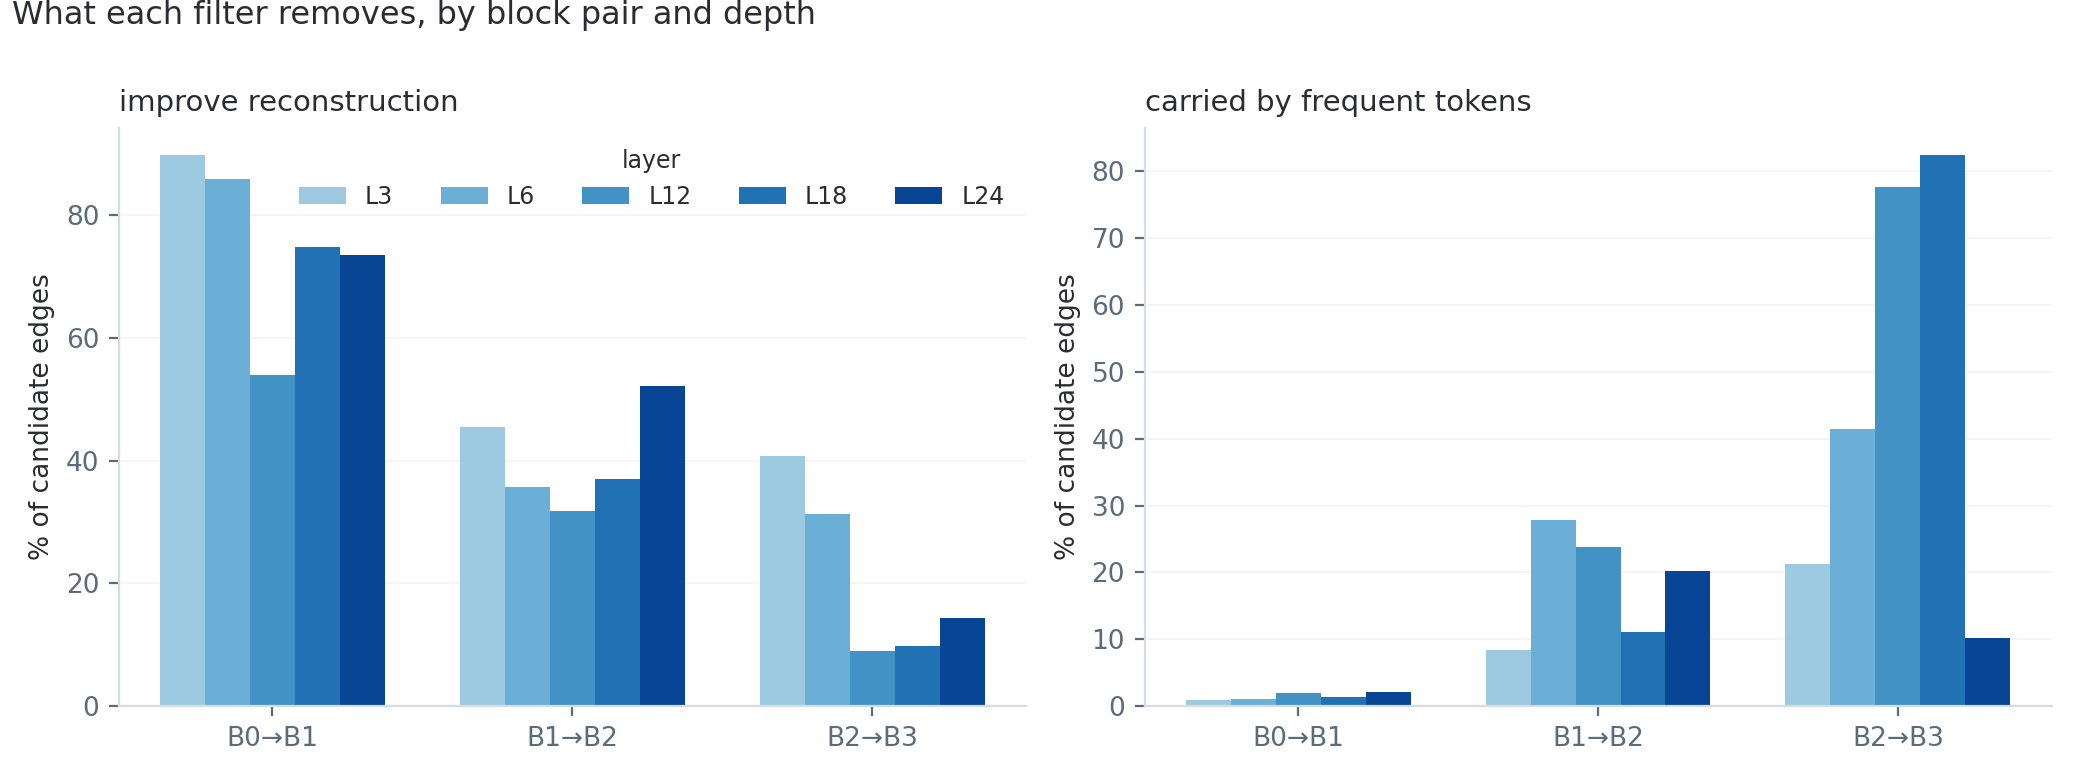
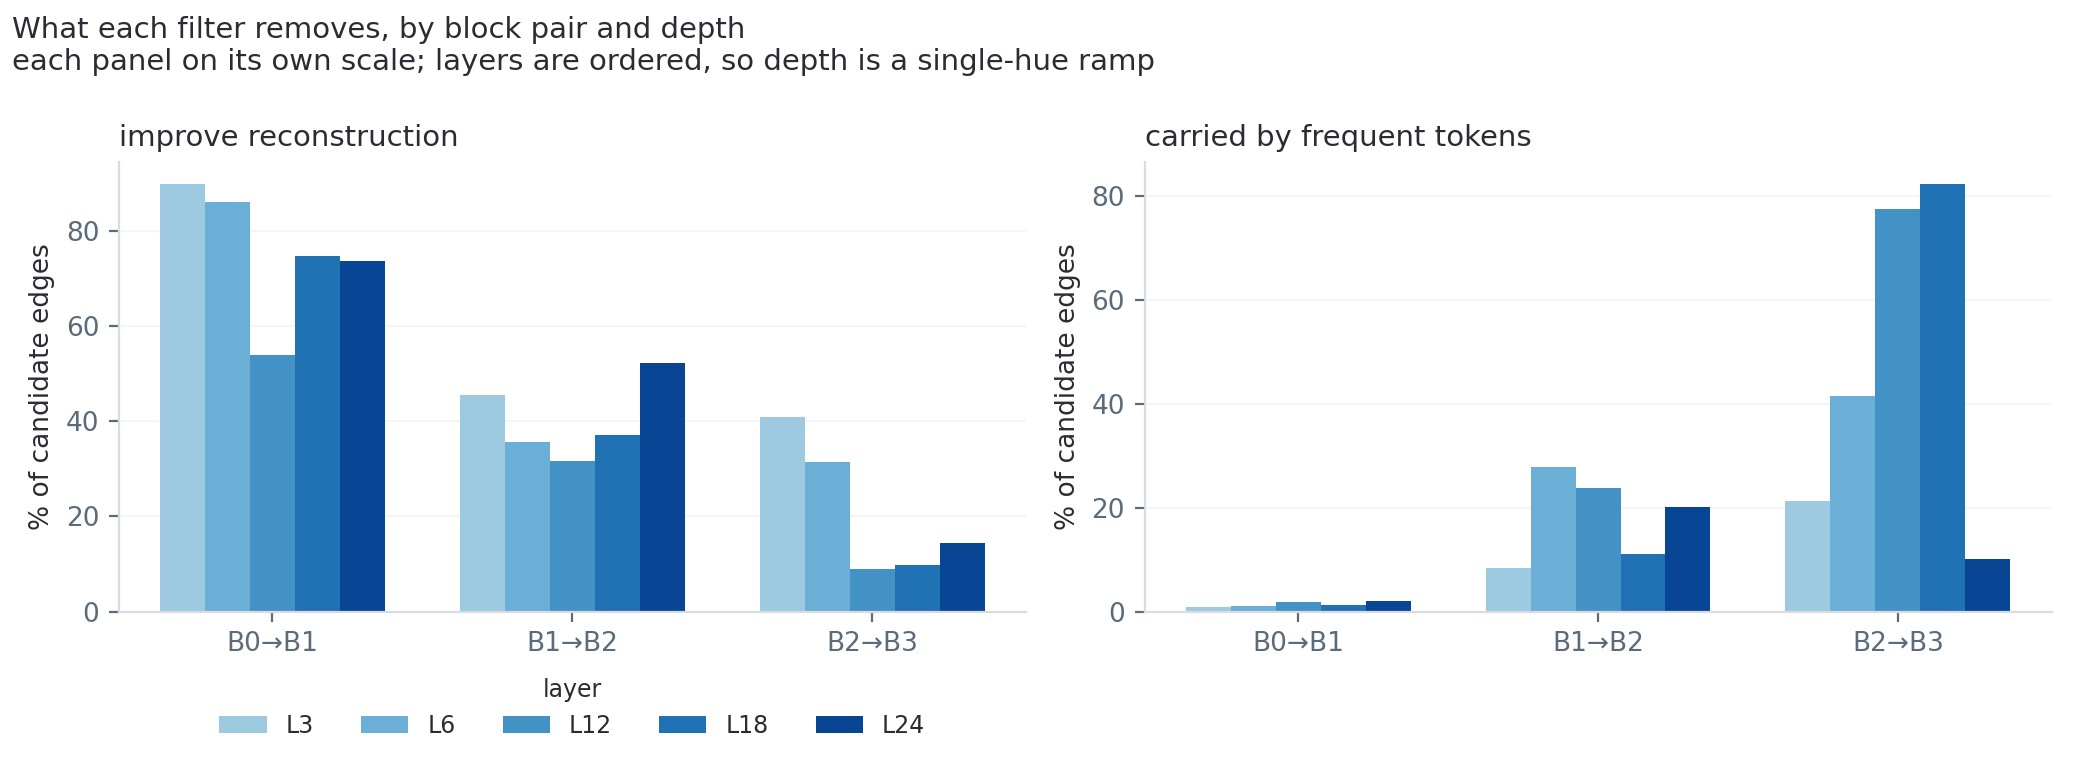
Review all twelve figures: one wrong label, one silent cap, one near-tautology
Went through every figure rather than trusting the set.

A wrong label. cross_source_funnel_shares plotted the report's n_chance_level,
whose cutoff is PMI < 0.5, under the heading "above chance (PMI > 0)". Those are
different thresholds: it put 14% on the chart where the PMI > 0 shortlist is 70%.
Relabelled to what it computes.

A silent cap. The same figure took pcfg[:1], which dropped PCFG layer 03 --
the run that carries the strict test -- without printing anything. That is the
"renders 6 of 10 and reads as complete" failure this file is written against, in
the file itself. It now takes every PCFG layer, and so does the k/D figure, which
gains a third measurement: PCFG layer 03 at 0.52%, about 2x its own null.

That third point turns out to carry the argument. Two runs on the SAME
1,792-latent dictionary land on opposite sides of their own null -- one below,
one at 2x -- which says more plainly than the gemma comparison that a raw S_res
pass rate compares nothing across sources.

A near-tautology. superparent_fanout_vs_firing scattered fan-out against firing
rate for parents the fan-out gate had already selected, so every point was above
the line by construction; the log x-axis spanned less than a decade and printed
"4x10^1" for 40; and the five-layer ramp encoded nothing the points clustered on.
Rebuilt around the mechanism those numbers actually show: coverage keeps an edge
when P(parent | child) >= tau, which under independence is just the parent's
[…]

diff --git a/reporting/make_report_figures.py b/reporting/make_report_figures.py
@@ -14,7 +14,7 @@ stale when the order changes.
     edge_survival_by_block_pair             what each filter removes, per block pair
     depth_profile_across_layers             whether anything varies with depth
     multiparenting_by_layer                 the graph is not a tree
-    superparent_fanout_vs_firing            a parent's fan-out against its base rate
+    superparent_fanout_vs_firing            why a high-firing parent clears the bar for free
     calibration_synthetic_toy_scorecard     every metric against a known tree
     calibration_trained_toy_recovery        the same tree, through a real training run
     cross_source_funnel_shares              the same battery on gemma and on PCFG
@@ -217,10 +217,12 @@ def edge_survival_by_block_pair(layers):
         ax.set_title(title, fontsize=10.5, loc="left")
         ax.grid(True, axis="y", alpha=0.12)
         ax.set_axisbelow(True)
-    axes[0].legend(title="layer", fontsize=8.5, title_fontsize=8.5,
-                   frameon=False, ncol=5, loc="upper right")
-    fig.suptitle("What each filter removes, by block pair and depth",
-                 fontsize=11.5, x=0.006, ha="left", y=1.0)
+    axes[0].legend(title="layer", fontsize=8.5, title_fontsize=8.5, frameon=False,
+                   ncol=5, loc="upper center", bbox_to_anchor=(0.5, -0.10))
+    _title(fig, "What each filter removes, by block pair and depth",
+           "each panel on its own scale; layers are ordered, so depth is a single-hue ramp",
+           width=104)
+    fig.subplots_adjust(top=0.80, bottom=0.22)
     return _finish(fig, axes, "edge_survival_by_block_pair")
 
 
@@ -300,29 +302,45 @@ def multiparenting_by_layer(layers):
 #    pair, which is what this needs.
 # ---------------------------------------------------------------------------
 def superparent_fanout_vs_firing(layers):
-    fig, ax = plt.subplots(figsize=(6.8, 4.4))
-    n = 0
-    for i, (L, rep) in enumerate(layers):
-        xs, ys = [], []
-        for pr in rep["pairs"]:
-            for sp in pr.get("superparents", []):
-                xs.append(100 * sp["fire_frac"])
-                ys.append(100 * sp["outdeg_frac"])
-        n += len(xs)
-        ax.scatter(xs, ys, s=34, color=DEPTH[i], label=f"L{L}",
-                   edgecolor="white", linewidth=0.7, zorder=3)
-    ax.axhline(100 * C.SUPERPARENT_OUTDEG_FRAC, ls=(0, (4, 3)), lw=1.2, color=CAT[3])
-    ax.text(0.6, 100 * C.SUPERPARENT_OUTDEG_FRAC + 2,
-            f"gate: fan-out ≥ {100 * C.SUPERPARENT_OUTDEG_FRAC:.0f}%",
-            fontsize=8, color=CAT[3])
-    ax.set_xscale("log")
-    ax.set_xlabel("parent firing rate, % of tokens (log)")
-    ax.set_ylabel("fan-out, % of the child block")
-    ax.legend(title="layer", fontsize=8.5, title_fontsize=8.5, frameon=False, loc="lower right")
-    _title(ax, f"Flagged parents: fan-out against base rate ({n} parents, all block pairs)",
-           "the gate reads the vertical axis only — firing rate is handled per edge, by PMI",
-           width=68)
-    ax.grid(True, alpha=0.12)
+    """Why a high-firing parent clears the coverage bar: it barely has to.
+
+    The previous version scattered fan-out against firing rate on a log x-axis.
+    It was close to a tautology -- every point is above the gate because the gate
+    is what selected it -- the log scale spanned less than a decade and printed
+    "4x10^1" where "40" would do, and the five-layer ramp encoded nothing the
+    points clustered on.
+
+    What the same numbers do show is the mechanism. Coverage keeps an edge when
+    P(parent | child) >= tau. Under independence that probability is just the
+    parent's firing rate, so the enrichment a parent needs over chance is tau/rho
+    -- 50x for a parent firing on 1% of tokens, and at or below 1x for anything
+    firing more often than tau itself.
+    """
+    fires = [sp["fire_frac"] for _, rep in layers for pr in rep["pairs"]
+             for sp in pr.get("superparents", [])]
+    tau = C.EDGE_TAU
+    free = sum(1 for f in fires if f >= tau)
+
+    fig, ax = plt.subplots(figsize=(7.8, 4.6))
+    rho = np.linspace(0.005, 1.0, 400)
+    ax.plot(100 * rho, tau / rho, lw=2, color=NEUTRAL, zorder=1,
+            label=f"enrichment needed to reach R ≥ {tau}   (= {tau}/ρ)")
+    ax.axhline(1.0, ls=(0, (4, 3)), lw=1.3, color=CAT[3])
+    ax.text(2, 1.45, "1× — no enrichment at all: the edge is kept on base rate",
+            fontsize=8.5, color=CAT[3])
+    ax.scatter([100 * f for f in fires], [tau / f for f in fires], s=46, color=CAT[0],
+               zorder=3, edgecolor="white", linewidth=0.8,
+               label=f"the {len(fires)} flagged parents")
+    ax.set_yscale("log")
+    ax.set_xlim(0, 104)
+    ax.set_xlabel("parent firing rate ρ, % of tokens")
+    ax.set_ylabel("enrichment over chance the parent needs (log)")
+    ax.legend(fontsize=8.5, frameon=False, loc="upper right")
+    _title(ax, "A parent that fires often enough clears the coverage bar without any enrichment",
+           f"{free} of the {len(fires)} flagged parents fire on ≥ {100 * tau:.0f}% of tokens, so "
+           f"co-firing with most of the next block is arithmetic. One firing on 1% would need "
+           f"{tau / 0.01:.0f}× enrichment for the same edge", width=78)
+    ax.grid(True, which="both", alpha=0.12)
     ax.set_axisbelow(True)
     return _finish(fig, ax, "superparent_fanout_vs_firing")
 
@@ -399,7 +417,7 @@ def calibration_synthetic_toy_scorecard(rows):
 # ---------------------------------------------------------------------------
 def calibration_trained_toy_recovery(tt, align):
     tp, fp, fn = tt["true_positives"], tt["false_positives"], tt["false_negatives"]
-    fig, axes = plt.subplots(1, 2, figsize=(9.6, 3.4),
+    fig, axes = plt.subplots(1, 2, figsize=(10.4, 3.9),
                              gridspec_kw={"width_ratios": [1.25, 1]})
 
     ax = axes[0]
@@ -410,10 +428,9 @@ def calibration_trained_toy_recovery(tt, align):
         ax.text(i, v + 0.15, str(v), ha="center", fontsize=10, color=INK)
     ax.set_ylabel("true edges")
     ax.set_ylim(0, max(tp, fn, fp) * 1.35 + 0.5)
-    ax.set_title(f"Edge recovery — precision {tt['precision']:.2f}, recall {tt['recall']:.2f}\n"
-                 f"the SAE learned {tt['n_recovered_features']}/{tt['n_features']} true features; "
-                 f"every miss is an edge whose child it never learned",
-                 fontsize=10, loc="left")
+    _title(ax, f"Edge recovery — precision {tt['precision']:.2f}, recall {tt['recall']:.2f}",
+           f"the SAE learned {tt['n_recovered_features']}/{tt['n_features']} true features; every "
+           f"miss is an edge whose child it never learned", width=52)
 
     ax = axes[1]
     if align:
@@ -424,11 +441,10 @@ def calibration_trained_toy_recovery(tt, align):
                 ha="center", fontsize=10, color=INK)
         ax.set_ylim(0, max(align["n_testable"], 1) * 1.4)
         ax.set_ylabel("true edges")
-        ax.set_title(f"Nesting control — {align['n_respected']}/{align['n_testable']} testable "
-                     f"edges run early block → late\n"
-                     f"mean block {align['mean_parent_block']:.1f} for parents, "
-                     f"{align['mean_child_block']:.1f} for children",
-                     fontsize=10, loc="left")
+        _title(ax, f"Nesting control — {align['n_respected']}/{align['n_testable']} testable edges "
+                   f"run early block → late",
+               f"mean block {align['mean_parent_block']:.1f} for parents, "
+               f"{align['mean_child_block']:.1f} for children", width=46)
     else:
         ax.axis("off")
         ax.text(0.5, 0.5, "block_tree_alignment.json absent\nrun validation.block_tree_alignment",
@@ -444,7 +460,11 @@ def calibration_trained_toy_recovery(tt, align):
 #    blocks against 32768 in 5 is not a comparison counts can carry.
 # ---------------------------------------------------------------------------
 def cross_source_funnel_shares(runs):
-    stages = ["improve\nreconstruction", "above chance\n(PMI > 0)", "frequency-\ndriven"]
+    # "above chance" here is the report's n_chance_level, whose cutoff is PMI < 0.5
+    # -- NOT the PMI > 0 shortlist that stage 03 scores. Labelling it "PMI > 0" put
+    # 14% on the chart where the shortlist is 70%, two different thresholds under
+    # one name.
+    stages = ["improve\nreconstruction", "clears chance\n(PMI ≥ 0.5)", "frequency-\ndriven"]
     fig, ax = plt.subplots(figsize=(8.0, 3.8))
     x = np.arange(len(stages))
     w = 0.8 / max(len(runs), 1)
@@ -660,11 +680,23 @@ def sres_null_rate_vs_dictionary_size(observed):
             label=f"chance pass rate = k/D  (k = {k})")
     ax.scatter(Ds, null, s=70, color=CAT[0], zorder=3, edgecolor="white", linewidth=1,
                label="chance, per source")
-    for (name, d), v in zip(sources, null):
+    for i, ((name, d), v) in enumerate(zip(sources, null)):
+        # below-left, except the first (no room to its left) and the last (the
+        # zero-floor note lives under it)
+        left = 0 < i < len(sources) - 1
         ax.annotate(f"{name}\nD = {d:,} → {v:.2f}%", (d, v),
-                    textcoords="offset points", xytext=(9, 9), fontsize=8, color=MUTED)
+                    ha="right" if left else "left",
+                    textcoords="offset points",
+                    xytext=(-10 if left else 11, -20 if i < len(sources) - 1 else 4),
+                    fontsize=8, color=MUTED)
     floor = float(np.min(null)) / 4                      # a visible place for zero
     drew_obs = zeros = False
+    # A drop-line from each measurement to its own chance point. The message is
+    # the RATIO between them, and on a log axis that is a vertical distance --
+    # which the reader had to estimate by eye against a sloping grey line.
+    for name, d, obs in observed:
+        y0, y1 = (floor if obs <= 0 else obs), 100 * k / d
+        ax.plot([d, d], [min(y0, y1), max(y0, y1)], lw=1.2, color=GOOD, alpha=0.45, zorder=2)
     for name, d, obs in observed:
         # A measured 0% has no position on a log axis. Plotting it at the floor
         # with an open marker and saying so beats dropping the point, which would
@@ -679,21 +711,25 @@ def sres_null_rate_vs_dictionary_size(observed):
         ax.annotate(f"{name}: {'0% — no edge passed' if at_zero else f'observed {obs:.2f}%'}"
                     + ("" if at_zero else f"\n≈{obs / (100 * k / d):.0f}× its own chance rate"),
                     (d, floor if at_zero else obs), textcoords="offset points",
-                    xytext=(10, -6 if at_zero else -22), fontsize=8, color=GOOD)
+                    xytext=(11, -4 if at_zero else 8), fontsize=8, color=GOOD)
         drew_obs = True
     ax.set_xscale("log")
     ax.set_yscale("log")
     if zeros:
         ax.axhline(floor, ls=(0, (1, 4)), lw=1, color=NEUTRAL)
-        ax.text(ax.get_xlim()[1] * 0.94, floor * 1.15, "0% drawn here — a log axis has no zero",
-                fontsize=7.5, color=MUTED, style="italic", ha="right")
+        ax.text(ax.get_xlim()[0] * 1.15, floor * 1.15, "0% drawn here — a log axis has no zero",
+                fontsize=7.5, color=MUTED, style="italic", ha="left")
     ax.set_xlabel("dictionary size D (log)")
     ax.set_ylabel("% of unrelated parents that pass (log)")
     # lifted clear of the zero-floor rule that runs along the bottom
     ax.legend(fontsize=8.5, frameon=False, loc="lower left", bbox_to_anchor=(0.0, 0.10))
+    ratios = [f"{name} {obs / (100 * k / d):.0f}×" if obs > 0 else f"{name} below chance"
+              for name, d, obs in observed]
     _title(ax, "The rank rule's strictness is set by dictionary size, not by k alone",
-           "an unrelated parent passes whenever chance puts it in the top k of D, so an S_res "
-           "pass rate is only comparable between dictionaries of similar size", width=72)
+           "grey line = what chance alone gives at each D; the vertical drop to it is what a "
+           "measured rate is worth. " + ", ".join(ratios) +
+           ". Two runs on the same 1,792-latent dictionary land on opposite sides of their own "
+           "null, so a raw pass rate compares nothing", width=78)
     ax.grid(True, which="both", alpha=0.12)
     ax.set_axisbelow(True)
     return _finish(fig, ax, "sres_null_rate_vs_dictionary_size")
@@ -765,7 +801,10 @@ def build(dry: bool) -> tuple[list[str], list[tuple[str, str]]]:
     pcfg = [(p.name, _json(p / "metrics_report.json"))
             for p in sorted((C.OUT_DIR / "pcfg").glob("layer_*")) if p.is_dir()]
     pcfg = [(f"PCFG {n.replace('_', ' ')}", r) for n, r in pcfg if r]
-    runs = ([("gemma-2-2b layer 06", l6)] if l6 else []) + pcfg[:1]
+    # Every PCFG layer, not the first one. `pcfg[:1]` silently dropped layer 03,
+    # which is the run that carries the strict test -- the exact "renders 6 of 10
+    # and reads as complete" failure this file is written against.
+    runs = ([("gemma-2-2b layer 06", l6)] if l6 else []) + pcfg
     run("cross_source_funnel_shares", len(runs) >= 2,
         f"{len(runs)} sources" if len(runs) >= 2 else "needs a gemma report and a PCFG report",
         lambda: cross_source_funnel_shares(runs))
@@ -783,10 +822,10 @@ def build(dry: bool) -> tuple[list[str], list[tuple[str, str]]]:
 
     # observed S_res shares, read off whatever second_pass.json files exist
     observed = []
-    for label, d_sae, path in [
-        ("gemma", 32768, G / "layer_06" / "second_pass.json"),
-        ("PCFG", 1792, C.OUT_DIR / "pcfg" / "layer_01" / "second_pass.json"),
-    ]:
+    probes = [("gemma L6", 32768, G / "layer_06" / "second_pass.json")]
+    probes += [(f"PCFG {q.parent.name.replace('_', ' ')}", 1792, q)
+               for q in sorted((C.OUT_DIR / "pcfg").glob("layer_*/second_pass.json"))]
+    for label, d_sae, path in probes:
         sp = _json(path)
         if sp and "0->1" in sp:
             s = sp["0->1"]["sres"]

diff --git a/outputs/paper_figuers/README.md b/outputs/paper_figuers/README.md
@@ -38,8 +38,8 @@ Generated by [`reporting/make_report_figures.py`](../../reporting/make_report_fi
 | `superparent_fanout_vs_firing.png` | the superparent gate reads fan-out; firing rate is handled per edge | 5 gemma layer reports |
 | `calibration_synthetic_toy_scorecard.png` | every metric scored against a known tree, plus two demonstrated blind spots | outputs/synthetic_toy_calibration.json |
 | `calibration_trained_toy_recovery.png` | the same tree after a real training run, and the nesting control | outputs/trained_toy_calibration.json |
-| `cross_source_funnel_shares.png` | one unchanged battery across two SAE sources | 2 sources |
+| `cross_source_funnel_shares.png` | one unchanged battery across two SAE sources | 3 sources |
 | `in_block_relations.png` | same-level structure concentrates in B0 on both sources, read as a per-pair rate | 7 runs with in_block_edges.json |
-| `sres_null_rate_vs_dictionary_size.png` | a top-k rank rule is only as strict as D is large | config (k=5) + 2 measured pass rates |
+| `sres_null_rate_vs_dictionary_size.png` | a top-k rank rule is only as strict as D is large | config (k=5) + 3 measured pass rates |
 
 Every number in every title is read from the JSON being plotted, so a caption cannot outlive the data under it -- the previous generator quoted layer-6 figures that had been withdrawn.
